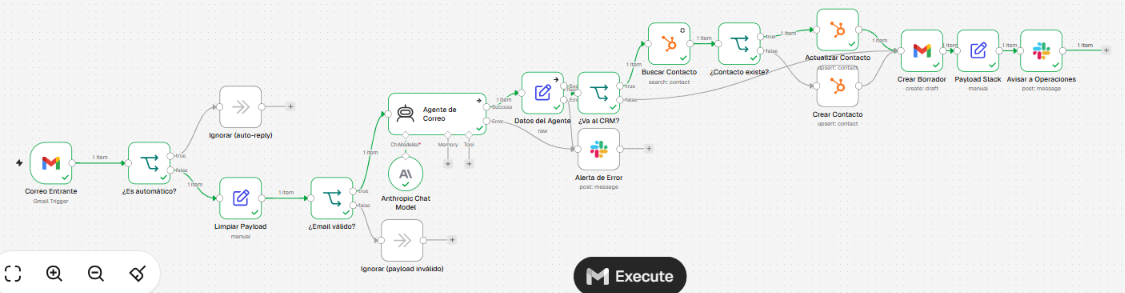
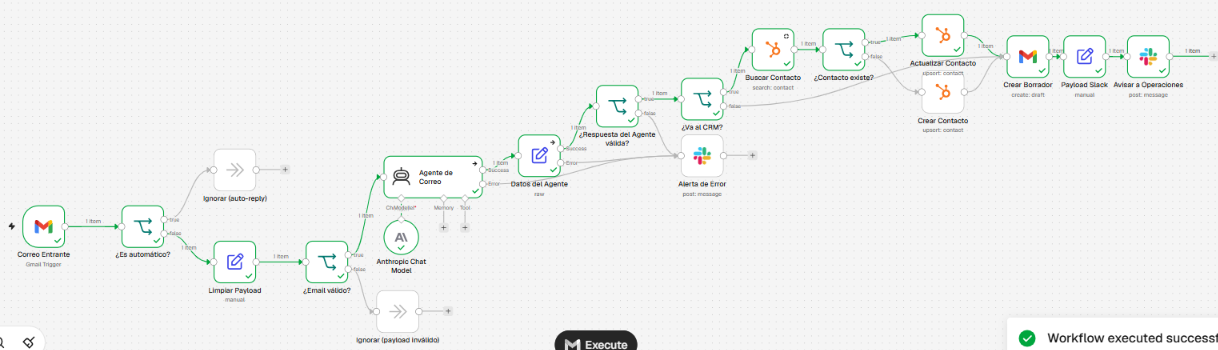
Checkpoint 4: correcciones de la devolución

diff --git a/Modulo 4/README.md b/Modulo 4/README.md
@@ -12,11 +12,31 @@ Este módulo suma al proyecto integrador un **segundo canal de entrada**: el cor
 
 ---
 
+## Caso de uso
+
+**Problema.** NexoFlow recibe en su casilla de soporte consultas de posibles clientes, reclamos de clientes actuales y correos ajenos (proveedores, spam, respuestas automáticas). Leer, clasificar, cargar cada contacto en el CRM y redactar la respuesta a mano lleva tiempo, y un correo urgente puede quedar sin ver.
+
+**Qué hace el flujo**, cada vez que llega un correo a `+soporte`:
+
+1. Descarta las respuestas automáticas (evita el bucle infinito de correos).
+2. Limpia el correo y valida que tenga remitente y texto.
+3. Un agente de IA lo clasifica (VENTAS, SOPORTE u OTRO), le asigna prioridad, extrae nombre, apellido y empresa, y redacta una respuesta.
+4. Se valida la respuesta del agente antes de usarla en cualquier sistema.
+5. Si es VENTAS o SOPORTE, busca el contacto en HubSpot: lo crea si no existe o completa solo los datos vacíos si ya existe.
+6. Deja la respuesta como **borrador** dentro del mismo hilo de Gmail: una persona la revisa y la envía.
+7. Avisa en Slack (`#operaciones`) con categoría, prioridad, contacto, resumen y qué se hizo en el CRM.
+
+**Ejemplo.** Un cliente escribe *"El chatbot dejó de responder desde esta mañana, es urgente"*. Resultado: categoría SOPORTE, prioridad ALTA, contacto actualizado en HubSpot, borrador que avisa que un técnico lo revisa y aviso 🚨 en Slack (prueba 1 del test de regresión).
+
+**Qué no hace, por diseño:** no envía correos sin revisión humana, no borra registros del CRM y no procesa correos de otras direcciones de la casilla.
+
+---
+
 ## 1. Credenciales (OAuth2)
 
 ![Credenciales OAuth2 activas en n8n](img/credenciales.png)
 
-Las tres conexiones usan **OAuth2**: `HubSpot OAuth2 API`, `Gmail OAuth2 API` y `Slack OAuth2 API`.
+Las tres conexiones usan **OAuth2** (Managed OAuth2 de n8n Cloud) y figuran como **Account connected**: `HubSpot NexoFlow` (HubSpot OAuth2 API), `Gmail Soporte` (Gmail OAuth2 API) y `Slack Operaciones` (Slack OAuth2 API).
 
 ### Mínimo privilegio
 
@@ -26,6 +46,21 @@ El principio se aplica en dos niveles.
 - Gmail tiene una credencial **propia**, separada de la de Google Sheets. La credencial de Sheets no puede leer el correo, y la de Gmail no puede tocar las planillas.
 - Se **rechazó** la opción "Conectar Gmail" que ofrece HubSpot, porque le daba a HubSpot acceso a toda la casilla. La integración pasa por n8n.
 - En n8n Cloud, el OAuth2 de HubSpot usa los permisos que define la app de n8n. En producción se usaría una *Service Key* restringida a `crm.objects.contacts.read` y `crm.objects.contacts.write`.
+
+**Scopes OAuth2**
+
+Con *Managed OAuth2*, n8n Cloud define los scopes de su propia app y no se pueden recortar desde la credencial. Por eso el mínimo privilegio se refuerza en el workflow (abajo). En producción, con una app OAuth propia (*Custom OAuth2*), se configurarían solo estos scopes:
+
+| Servicio | Scope mínimo | Para qué operación del flujo |
+|---|---|---|
+| Gmail | `https://www.googleapis.com/auth/gmail.readonly` | Leer los correos entrantes (trigger) |
+| Gmail | `https://www.googleapis.com/auth/gmail.compose` | Crear el borrador de respuesta |
+| HubSpot | `crm.objects.contacts.read` | Buscar el contacto por email |
+| HubSpot | `crm.objects.contacts.write` | Crear o actualizar el contacto |
+| Slack | `chat:write` | Publicar el aviso en `#operaciones` |
+| Slack | `channels:read` | Elegir el canal de la lista (opcional si se usa el ID del canal) |
+
+Gmail no tiene un scope que permita crear borradores sin permitir enviar: `gmail.compose` también habilita el envío. Por eso el control efectivo es que el flujo **solo tiene la operación Create Draft**.
 
 **Nivel workflow**
 - El trigger solo lee los correos dirigidos a `ainpellizzari+soporte@gmail.com` (filtro `to:`): el resto de la casilla nunca entra al flujo.
@@ -39,6 +74,8 @@ El principio se aplica en dos niveles.
 
 ![Lienzo completo del workflow](img/lienzo_completo.png)
 
+*Ejecución completa por la rama principal: la respuesta del agente pasa la validación y el contacto existente se actualiza en HubSpot.*
+
 ```
 [Correo Entrante: Gmail Trigger, solo alias +soporte]
         │
@@ -50,8 +87,10 @@ El principio se aplica en dos niveles.
         │ sí
    [Agente de Correo: AI Agent + Claude Sonnet] ── error ──▶ [Alerta de Error: Slack]
         │
-   [Datos del Agente: Set que valida el JSON]
+   [Datos del Agente: Set que valida el JSON] ── error ──▶ [Alerta de Error]
         │
+④  [¿Respuesta del Agente válida?: IF] ── no ──▶ [Alerta de Error]
+        │ sí
    [¿Va al CRM?: IF] ── categoría OTRO ─────────────────────────┐
         │ VENTAS / SOPORTE                                       │
 ② [Buscar Contacto: HubSpot Search por email]                    │
@@ -83,18 +122,63 @@ Si se cumple cualquiera, el flujo termina en `Ignorar (auto-reply)` y no se gast
 
 ![Auto-reply cortado en el IF](img/guardrail1_autoreply.png)
 
+**Verificación en el JSON** (`checkpoint4_ain_pellizzari.json`): combinador `or`, sin distinguir mayúsculas, y la salida 0 (true) conectada a `Ignorar (auto-reply)`, un nodo sin salida que termina el flujo.
+
+```json
+"name": "¿Es automático?",
+"conditions": {
+  "conditions": [
+    { "leftValue": "={{ $json.subject || $json.Subject }}", "rightValue": "Auto-reply",           "operator": { "operation": "contains" } },
+    { "leftValue": "={{ $json.subject || $json.Subject }}", "rightValue": "Out of office",        "operator": { "operation": "contains" } },
+    { "leftValue": "={{ $json.subject || $json.Subject }}", "rightValue": "Undeliverable",        "operator": { "operation": "contains" } },
+    { "leftValue": "={{ $json.subject || $json.Subject }}", "rightValue": "Respuesta automática", "operator": { "operation": "contains" } },
+    { "leftValue": "={{ $json.subject || $json.Subject }}", "rightValue": "Fuera de la oficina",  "operator": { "operation": "contains" } },
+    { "leftValue": "={{ $json.from?.value?.[0]?.address || $json.From }}", "rightValue": "no-reply@",      "operator": { "operation": "contains" } },
+    { "leftValue": "={{ $json.from?.value?.[0]?.address || $json.From }}", "rightValue": "noreply@",       "operator": { "operation": "contains" } },
+    { "leftValue": "={{ $json.from?.value?.[0]?.address || $json.From }}", "rightValue": "mailer-daemon@", "operator": { "operation": "contains" } }
+  ],
+  "combinator": "or"
+},
+"options": { "ignoreCase": true }
+
+"connections": {
+  "¿Es automático?": { "main": [
+    [ { "node": "Ignorar (auto-reply)" } ],
+    [ { "node": "Limpiar Payload" } ]
+  ] }
+}
+```
+
 ### ② Look up antes del Create: evita el Error 409 y protege los datos
 
 Nodo **`Buscar Contacto`**: búsqueda en HubSpot con el filtro `Email = <remitente>`, límite 1 y *Always Output Data* activado.
 
 ![Filtro de búsqueda por email](img/guardrail2_buscar_contacto.png)
 
+- **Bifurcación:** el IF **`¿Contacto existe?`** comprueba que el resultado de la búsqueda tenga `id` (*String → exists*). *Always Output Data* es lo que permite que, cuando HubSpot no encuentra nada, el flujo siga y llegue a la rama de creación en lugar de detenerse.
 - **No existe →** `Crear Contacto`, con nombre, apellido, empresa y *Lifecycle Stage* = Lead.
 - **Existe →** `Actualizar Contacto` con **validación cruzada**: cada campo conserva el valor que ya tiene HubSpot y solo se completa si está vacío. Prueba: se cambió a mano el nombre del contacto a "Diego Alberto", y una nueva ejecución **no lo pisó** ni duplicó el contacto.
 
 Además, el IF **`¿Va al CRM?`** deja pasar a HubSpot solo las categorías VENTAS y SOPORTE. Proveedores, spam y otros correos no ensucian la Fuente Única de Verdad.
 
 ![Un correo OTRO no pasa por HubSpot](img/guardrail2b_va_al_crm.png)
+
+**Verificación en el JSON:**
+
+```json
+"name": "Buscar Contacto", "alwaysOutputData": true,
+"filterValues": [ { "propertyName": "email|string", "value": "={{ $json.email }}" } ], "limit": 1
+
+"name": "¿Contacto existe?",
+"conditions": [ { "leftValue": "={{ $json.id }}", "operator": { "type": "string", "operation": "exists" } } ]
+
+"connections": {
+  "¿Contacto existe?": { "main": [
+    [ { "node": "Actualizar Contacto" } ],
+    [ { "node": "Crear Contacto" } ]
+  ] }
+}
+```
 
 ### ③ Create Draft: Human-in-the-loop
 
@@ -127,6 +211,19 @@ Nodo **`Limpiar Payload`**: de un correo con `html`, `textAsHtml`, cabeceras de 
 ![Limpiar Payload: entrada pesada y salida limpia](img/guardrail4_limpiar_payload.png)
 
 Después, **`¿Email válido?`** exige que `From` tenga formato de email (`^[^@\s]+@[^@\s]+\.[^@\s]+$`) y que `BodyText` no esté vacío **antes** de llamar a cualquier servicio externo. Así se evita el Error 400 por payload mal formado.
+
+**Segunda validación: la respuesta del agente.** `Datos del Agente` comprueba que la salida sea un JSON válido, pero no que su contenido sirva. El IF **`¿Respuesta del Agente válida?`** controla los campos antes de escribir en HubSpot, Gmail o Slack (combinador AND):
+
+| Campo | Condición | Qué evita |
+|---|---|---|
+| `categoria` | regex `^(VENTAS\|SOPORTE\|OTRO)$` | Valores fuera de la taxonomía cerrada (por ejemplo, "Ventas") que romperían el ruteo al CRM |
+| `prioridad` | regex `^(ALTA\|MEDIA\|BAJA)$` | Prioridades inventadas en el aviso de Slack |
+| `resumen` | no vacío | Avisos en Slack sin contenido |
+| `borrador_respuesta` | no vacío | Error 400 de Gmail al crear un borrador vacío |
+
+Si alguna falla, la salida false dispara **`Alerta de Error`** en Slack y una persona atiende el correo. Prueba (caso 7): se fijó la salida de `Datos del Agente` con `"categoria": "Ventas"` y el IF la desvió por la rama false.
+
+![Validación de la respuesta del agente: "Ventas" sale por false](img/guardrail4b_validar_agente.png)
 
 Antes de Slack, **`Payload Slack`** deja solo categoría, prioridad, contacto, empresa, email, resumen y acción en el CRM. El borrador completo y el cuerpo original del correo no circulan por el canal compartido.
 
@@ -165,7 +262,7 @@ El nodo **`Datos del Agente`** valida la salida con `JSON.parse` antes de escrib
 | Crear o actualizar el contacto en HubSpot | Medio (escritura en el CRM) | Validación cruzada: Look up, sin pisar datos existentes, y solo para VENTAS / SOPORTE |
 | Responder al cliente | Medio (correo externo) | Human-in-the-loop: solo se crea un borrador |
 | Borrar registros, reembolsos, cambios de infraestructura | Alto | Excluido por diseño: el flujo no tiene nodos con esas operaciones |
-| Falla del agente o salida inválida | — | Alerta en Slack para que una persona atienda el correo |
+| Falla del agente, JSON inválido o campos fuera del contrato | — | Alerta en Slack para que una persona atienda el correo |
 | Servicio externo que no responde | — | Timeout del workflow: 120 segundos |
 
 ---
@@ -182,6 +279,7 @@ Ejecución manual de cada caso con *Fetch Test Event* + *Execute Workflow*:
 | 4 | Proveedor (categoría OTRO) | Borrador de derivación, **sin escribir en HubSpot** | ✅ (después de la corrección del hallazgo 1) |
 | 5 | Correo con el cuerpo vacío | Corte en `Ignorar (payload inválido)` | ✅ |
 | 6 | Respuesta humana con "Re:" e historial citado | Se procesa, y `BodyText` contiene solo el texto nuevo | ✅ |
+| 7 | Respuesta del agente fuera del contrato (`"categoria": "Ventas"`, fijada con *pin data*) | Desvío a `Alerta de Error`, sin tocar HubSpot ni Gmail | ✅ |
 
 | | |
 |---|---|
@@ -190,13 +288,14 @@ Ejecución manual de cada caso con *Fetch Test Event* + *Execute Workflow*:
 
 ![Prueba 5: correo vacío cortado](img/test5_correo_vacio.png)
 
-Las pruebas 2 y 6 se ven en las capturas de los guardrails ① y ④.
+Las pruebas 2, 6 y 7 se ven en las capturas de los guardrails ① y ④.
 
 ### Hallazgos corregidos
 
 1. **Cualquier correo terminaba en el CRM.** La prueba 4 (un proveedor) mostró que se escribía en HubSpot aunque la categoría fuera OTRO. Se agregó el IF `¿Va al CRM?`.
 2. **Nombres de campo con espacios invisibles** (`FromName `, `prioridad `): los datos llegaban vacíos al nodo siguiente. Se reescribieron a mano. Los contratos de datos fallan en silencio por diferencias mínimas.
 3. **La firma del correo llegaba al agente.** Se agregó el corte de firmas en `BodyText`. Trade-off conocido: si el cliente menciona su empresa solo en la firma, ese dato se pierde.
+4. **La salida del agente no se validaba por contenido** (devolución de la pre-entrega). Un JSON válido con `"Ventas"` o un borrador vacío llegaba a HubSpot y Gmail. Se agregó el IF `¿Respuesta del Agente válida?` (prueba 7).
 
 ### Comportamientos conocidos
 
@@ -205,9 +304,21 @@ Las pruebas 2 y 6 se ven en las capturas de los guardrails ① y ④.
 
 ---
 
-## 7. Cómo importarlo
+## 7. Cómo importarlo y ponerlo en marcha
 
-1. En n8n: **Create workflow → ··· → Import from File** y elegí `checkpoint4_ain_pellizzari.json`.
-2. Creá las credenciales **Gmail OAuth2 API**, **HubSpot OAuth2 API**, **Slack OAuth2 API** y **Anthropic** (API key), y asignalas en los nodos.
-3. En `Correo Entrante`, cambiá el filtro `to:` por tu casilla de soporte. En los nodos de Slack, elegí tu canal.
-4. Probá con **Fetch Test Event** en el trigger y **Execute Workflow**. No hace falta publicar el workflow para probarlo.
+**Requisitos:** cuenta de n8n (Cloud o self-hosted), una casilla de Gmail, una cuenta gratuita de HubSpot, un workspace de Slack con un canal para el equipo y una API key de Anthropic.
+
+1. **Importar:** en n8n, **Create workflow → ··· → Import from File** y elegí `checkpoint4_ain_pellizzari.json`.
+2. **Credenciales:** creá **Gmail OAuth2 API**, **HubSpot OAuth2 API**, **Slack OAuth2 API** y **Anthropic API**. Conectá cada una (tiene que decir *Account connected*) y asignala en los nodos que la piden: Gmail en `Correo Entrante` y `Crear Borrador`; HubSpot en `Buscar Contacto`, `Crear Contacto` y `Actualizar Contacto`; Slack en `Avisar a Operaciones` y `Alerta de Error`; Anthropic en `Anthropic Chat Model`.
+3. **Casilla:** en `Correo Entrante`, cambiá el filtro `to:ainpellizzari+soporte@gmail.com` por tu casilla o alias de soporte.
+4. **Canal:** en los dos nodos de Slack, elegí tu canal e invitá la app de n8n con `/invite`.
+5. **Modelo:** en `Anthropic Chat Model`, elegí un modelo disponible en tu cuenta.
+6. **Probar:** mandá un correo al alias, por ejemplo: *"Hola, soy Diego Ramírez de Ferretería Ramírez. Queremos un chatbot de WhatsApp que informe stock y precios. ¿Me pasan un presupuesto?"*. En el trigger tocá **Fetch Test Event** y después **Execute Workflow**.
+7. **Verificar:** el contacto aparece en HubSpot, el borrador queda en el hilo del correo en Gmail y llega el aviso a Slack.
+8. **Publicar** el workflow solo cuando las pruebas estén bien. No dejes dos copias publicadas con el mismo trigger: cada correo se procesaría dos veces.
+
+### Prueba de importación limpia
+
+El JSON se importó en un workflow nuevo con **Import from File**: todos los nodos cargaron sin errores ni advertencias, y las credenciales quedaron referenciadas por nombre (el archivo no contiene tokens). La copia se borró sin publicarse.
+
+![Workflow importado sin errores](img/importacion_limpia.png)
